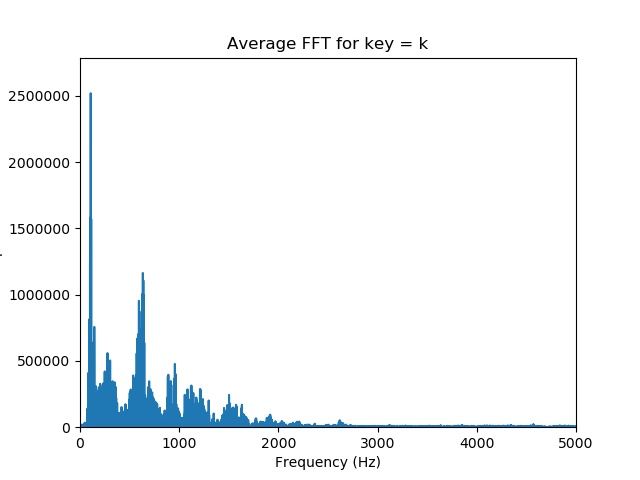
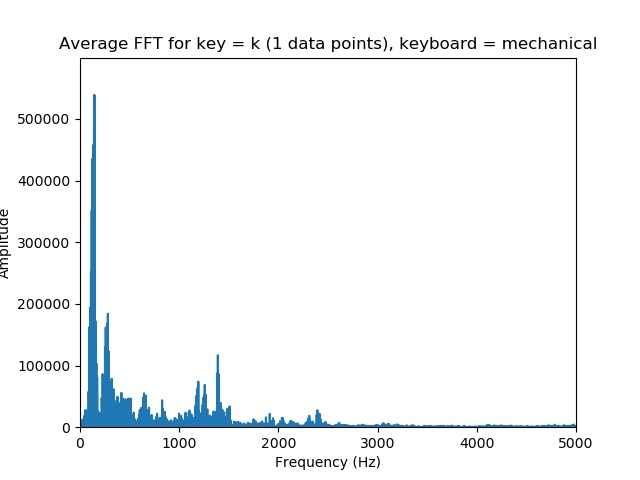
fixing average fft computation

diff --git a/average_fft.py b/average_fft.py
@@ -13,7 +13,7 @@ DIR_IN = "raw_data"
 DIR_OUT = "plots/average_fft"
 KEYBOARD_TYPE = "mechanical"
 
-offset = 20000
+offset = 10000
 
 avg_fft = {}
 key_count = {}
@@ -44,32 +44,20 @@ for f in os.listdir(os.path.join(DIR_IN, KEYBOARD_TYPE)):
             n = sample_end - sample_start
 
             freq = np.fft.fftfreq(n, 1 / sample_rate)
-            ampltitude = np.fft.fft(samples[sample_start : sample_end])
+            amplitude = np.fft.fft(samples[sample_start : sample_end])
 
             # only look at positive frequencies
             freq = freq[: n//2]
-            ampltitude = ampltitude[: n//2]
+            amplitude = amplitude[: n//2]
+            print("freq.shape ", freq.shape)
+            print("amplitude.shape ", amplitude.shape)
+            for i in range(10):
+                print("freq[i] ", freq[i])
+                print("ampl[i] ", amplitude[i])
 
             # Store fft's by key
-            if label not in avg_fft:
-                avg_fft[label] = ampltitude
-                key_count[label] = 1
-            else:
-                print("before avg_fft[label] ", avg_fft[label])
-                avg_fft[label] += ampltitude
-                print("after avg_fft[label] ", avg_fft[label])
-                key_count[label] += 1
-
-            """
-            plt.plot(freq, ampltitude)
-            # plt.axis([0, 10000, 0, 300000])
-            plt.xlim([0, 5000])
-            plt.ylim(bottom=0)
-            plt.title("key = {}, time = {} ms".format(label, timestamp))
-            plt.xlabel("Frequency (Hz)")
-            plt.ylabel("Amplitude")
-            plt.show()
-            """
+            avg_fft[label] = avg_fft.get(label, np.zeros(amplitude.shape[0])) + amplitude
+            key_count[label] = key_count.get(label, 0) + 1
 
         labels_file.close()
 
@@ -78,21 +66,19 @@ print("key_count " + str(key_count))
 
 fs = 48000
 for key in avg_fft:
-    # print("key ", key)
     amplitude = avg_fft[key]
-    # print("amplitude ", amplitude)
 
     # Normalize by total number of data points for this key
-    # ampltitude /= key_count[key]
+    amplitude /= key_count[key]
 
     freq = np.fft.fftfreq(offset * 2, 1 / fs)[: offset]
 
     # Plot the average fft for this key
     plt.clf()
-    plt.plot(freq, ampltitude)
+    plt.plot(freq, amplitude)
     plt.xlim([0, 5000])
     plt.ylim(bottom=0)
-    plt.title("Average FFT for key = {}".format(key))
+    plt.title("Average FFT for key = {} ({} data points), keyboard = {}".format(key, key_count[key], KEYBOARD_TYPE))
     plt.xlabel("Frequency (Hz)")
     plt.ylabel("Amplitude")
     plt.savefig(os.path.join(DIR_OUT, key + ".jpg"))
